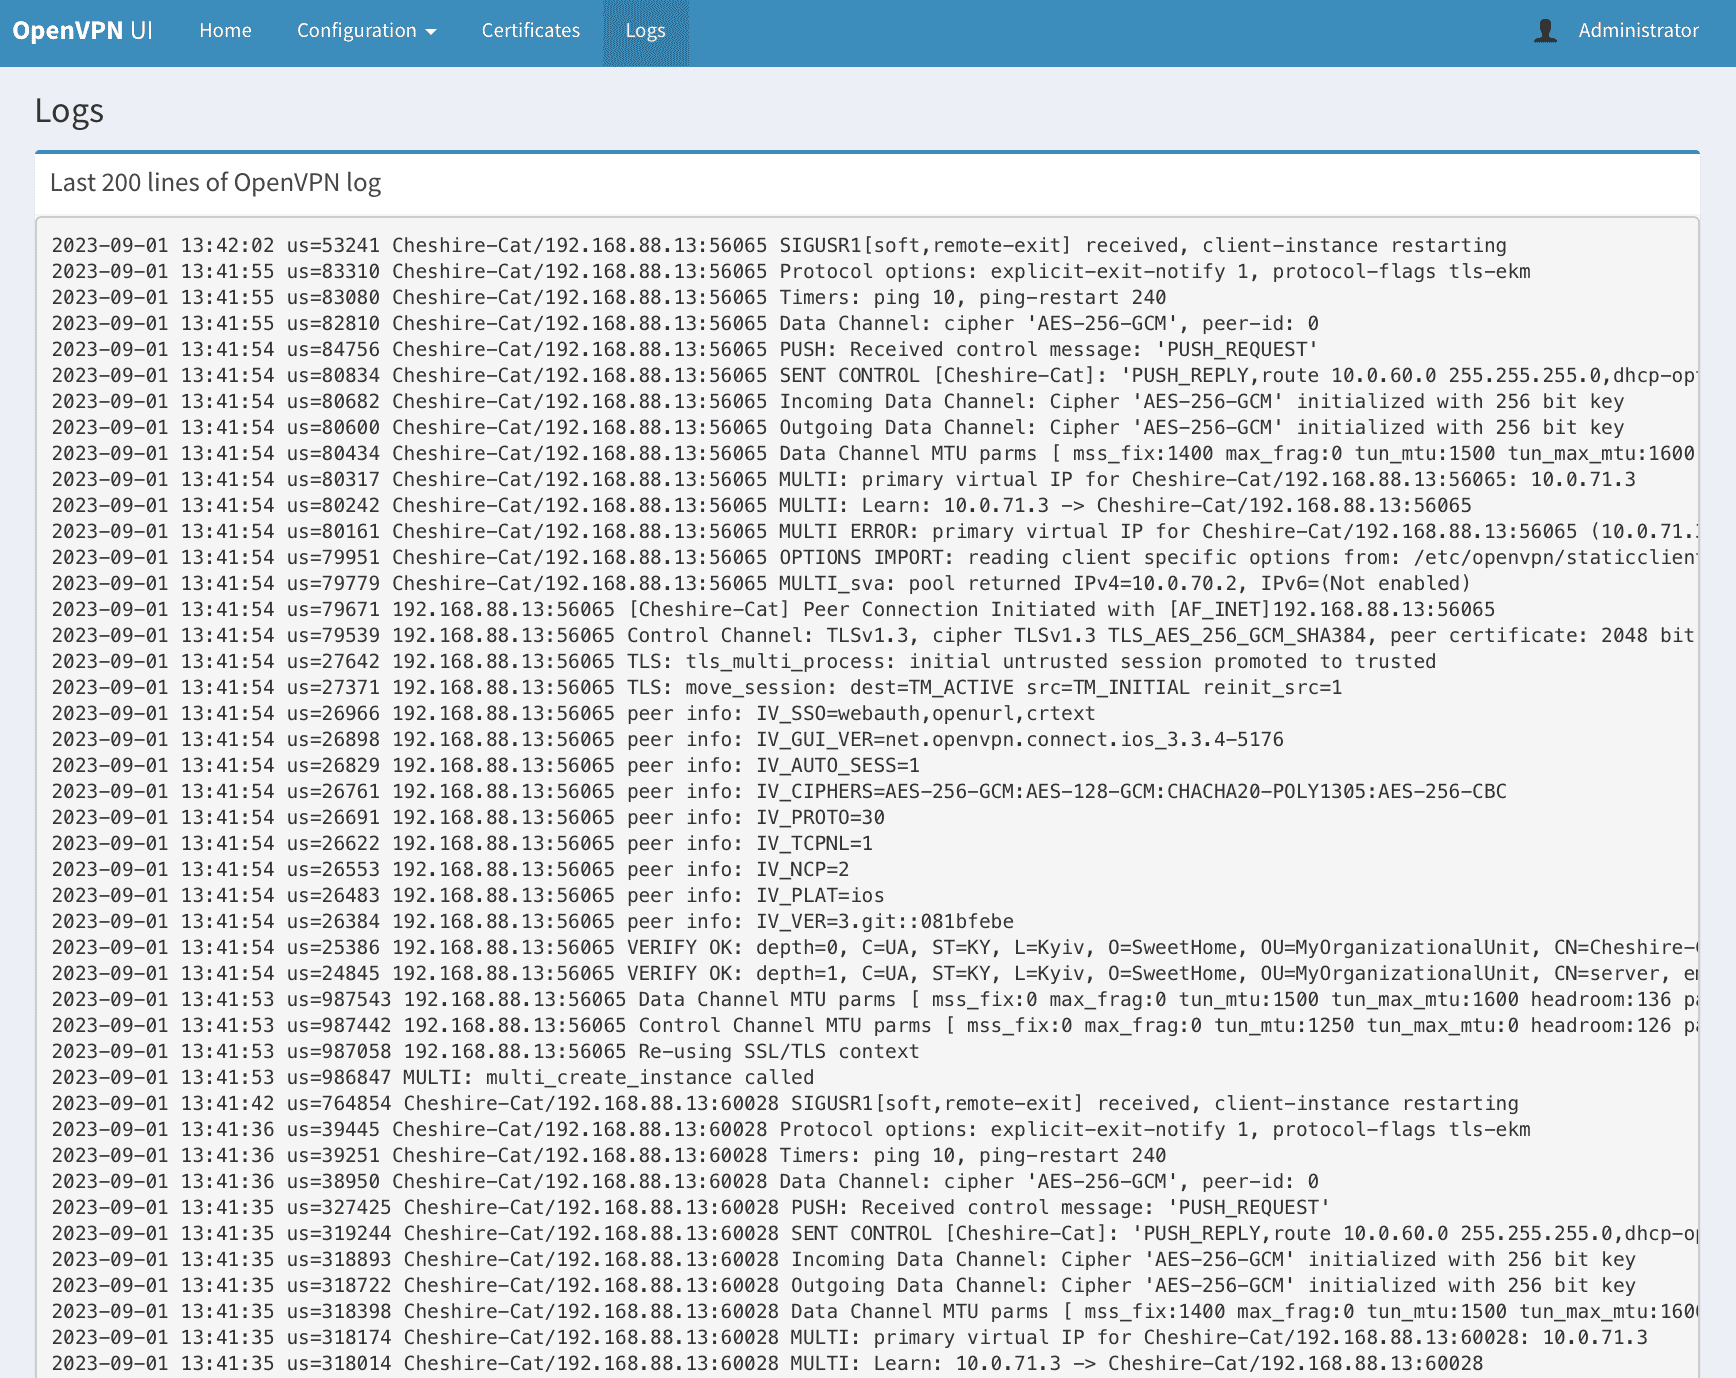
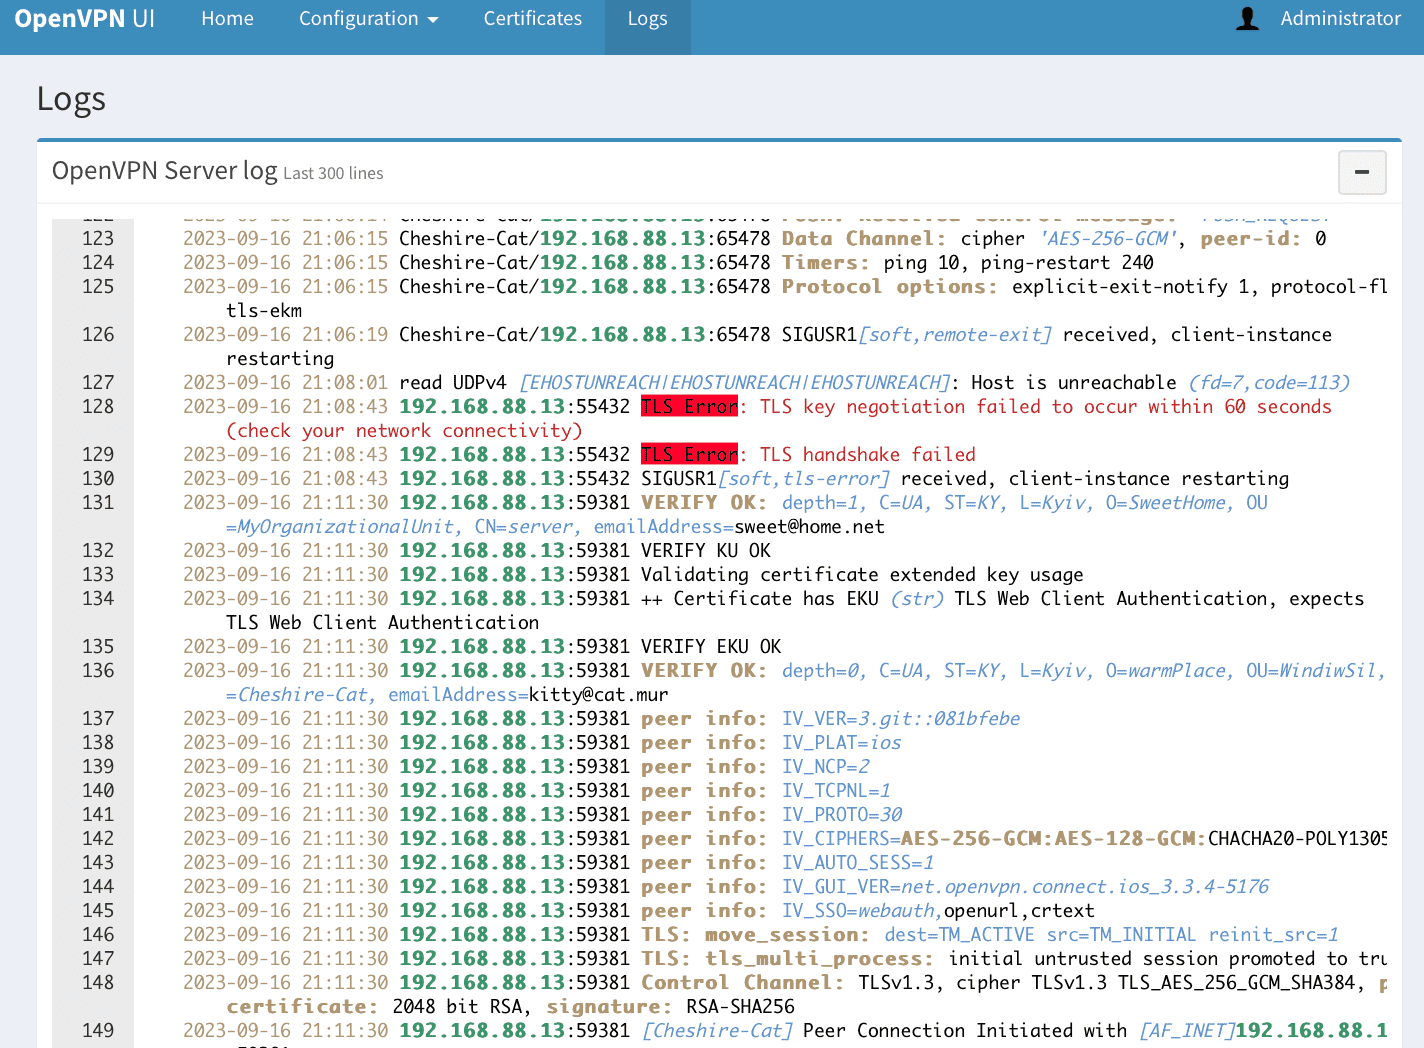
README and screenshots update

Changed region(s): [[0.0, 0.0, 1.0, 1.0], [0.8961, 0.6107, 0.9579, 0.6412], [0.8034, 0.6107, 0.8343, 0.6412]]

diff --git a/README.md b/README.md
@@ -623,11 +623,19 @@ After Revoking and Restarting the service, the client will be disconnected and w
 
 <img src="https://github.com/d3vilh/openvpn-ui/blob/main/docs/images/OpenVPN-UI-Create-Cert.png" alt="OpenVPN-UI Create Certificate screen" width="1000" border="1" />
 
+<img src="https://github.com/d3vilh/openvpn-ui/blob/main/docs/images/OpenVPN-UI-Certs-Details-Expire.png" alt="OpenVPN-UI Expire Certificate details" width="1000" border="1" />
+
+<img src="https://github.com/d3vilh/openvpn-ui/blob/main/docs/images/OpenVPN-UI-Certs-Details_OK.png" alt="OpenVPN-UI OK Certificate details" width="1000" border="1" />
+
 <img src="https://github.com/d3vilh/openvpn-ui/blob/main/docs/images/OpenVPN-UI-EasyRsaVars.png" alt="OpenVPN-UI EasyRSA vars screen" width="1000" border="1" />
+
+<img src="https://github.com/d3vilh/openvpn-ui/blob/main/docs/images/OpenVPN-UI-EasyRsaVars-View.png" alt="OpenVPN-UI EasyRSA vars config view screen" width="1000" border="1" />
 
 <img src="https://github.com/d3vilh/openvpn-ui/blob/main/docs/images/OpenVPN-UI-Maintenance.png" alt="OpenVPN-UI Maintenance screen" width="1000" border="1" />
 
 <img src="https://github.com/d3vilh/openvpn-ui/blob/main/docs/images/OpenVPN-UI-Server-config.png" alt="OpenVPN-UI Server Configuration screen" width="1000" border="1" />
+
+<img src="https://github.com/d3vilh/openvpn-ui/blob/main/docs/images/OpenVPN-UI-Server-config-edit.png" alt="OpenVPN-UI Server Configuration edit screen" width="1000" border="1" />
 
 <img src="https://github.com/d3vilh/openvpn-ui/blob/main/docs/images/OpenVPN-UI-ClientConf.png" alt="OpenVPN-UI Client Configuration screen" width="1000" border="1" />
 
